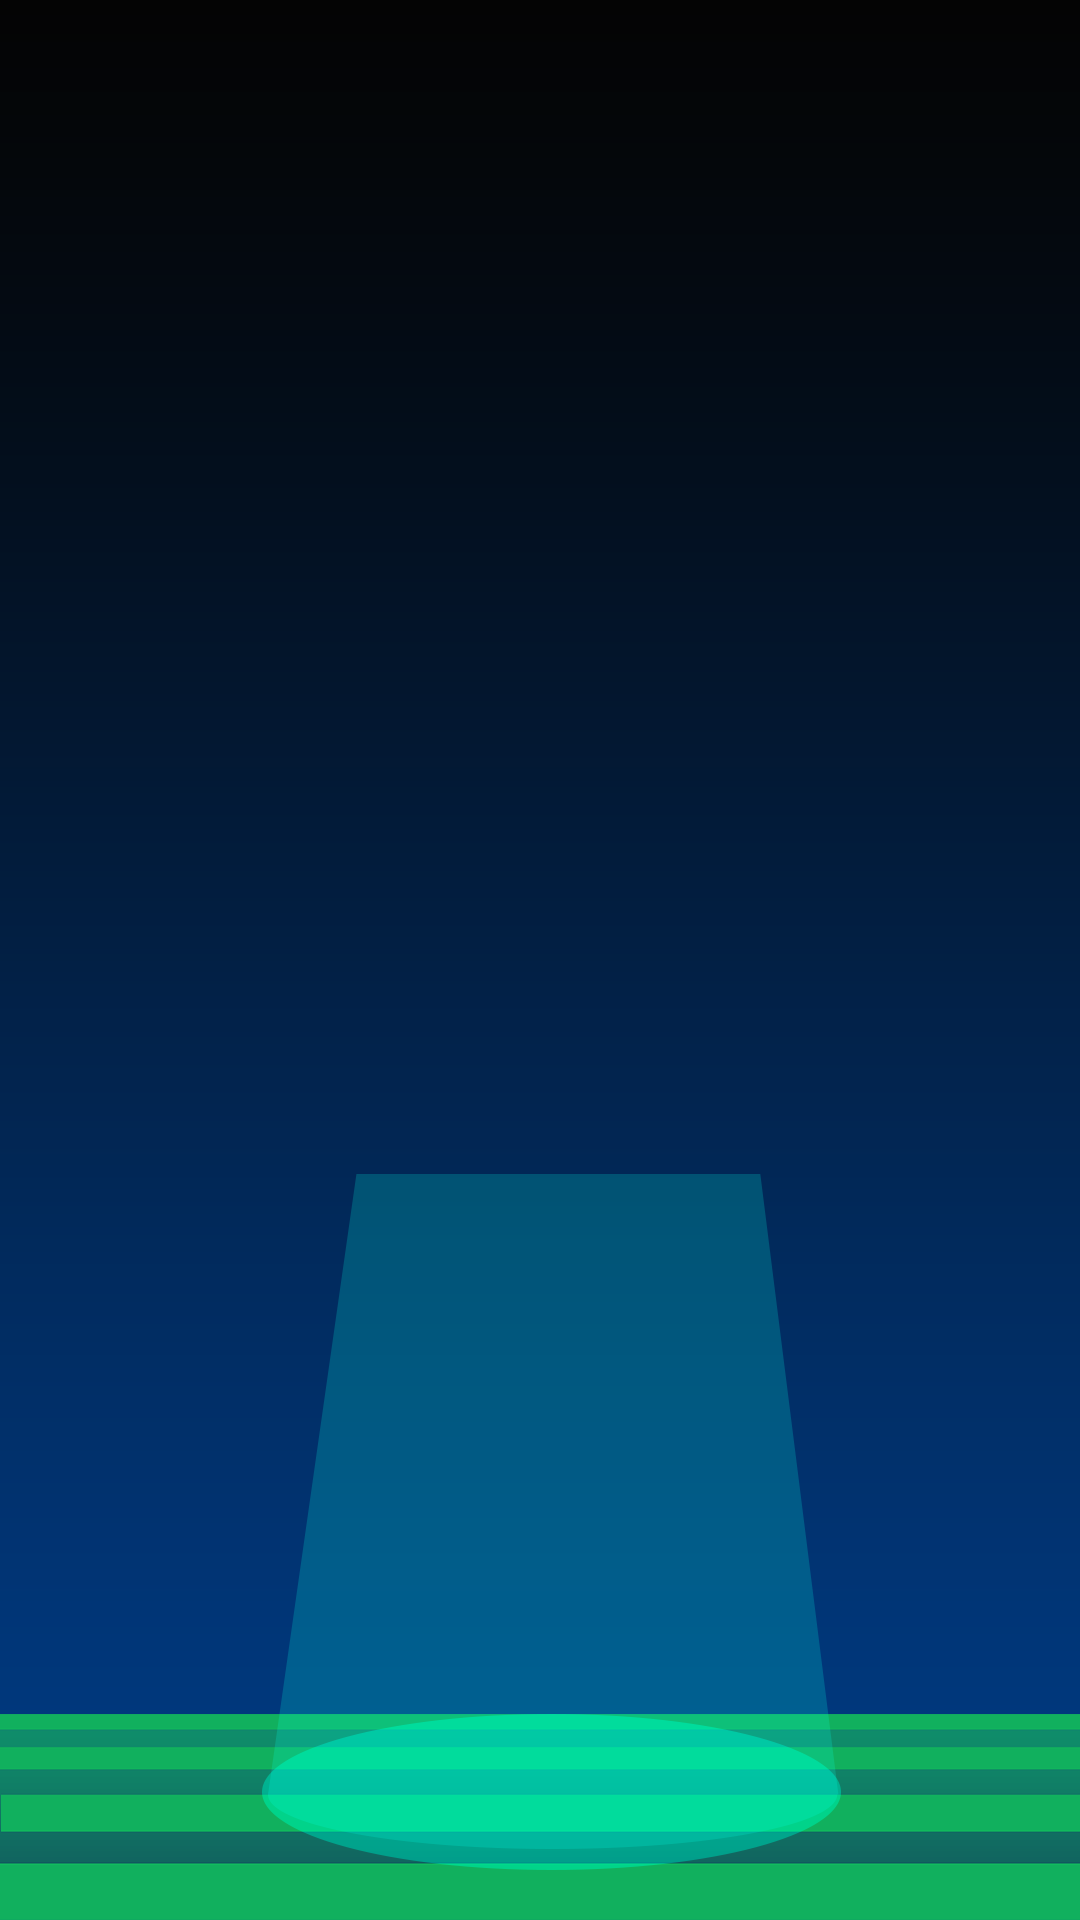
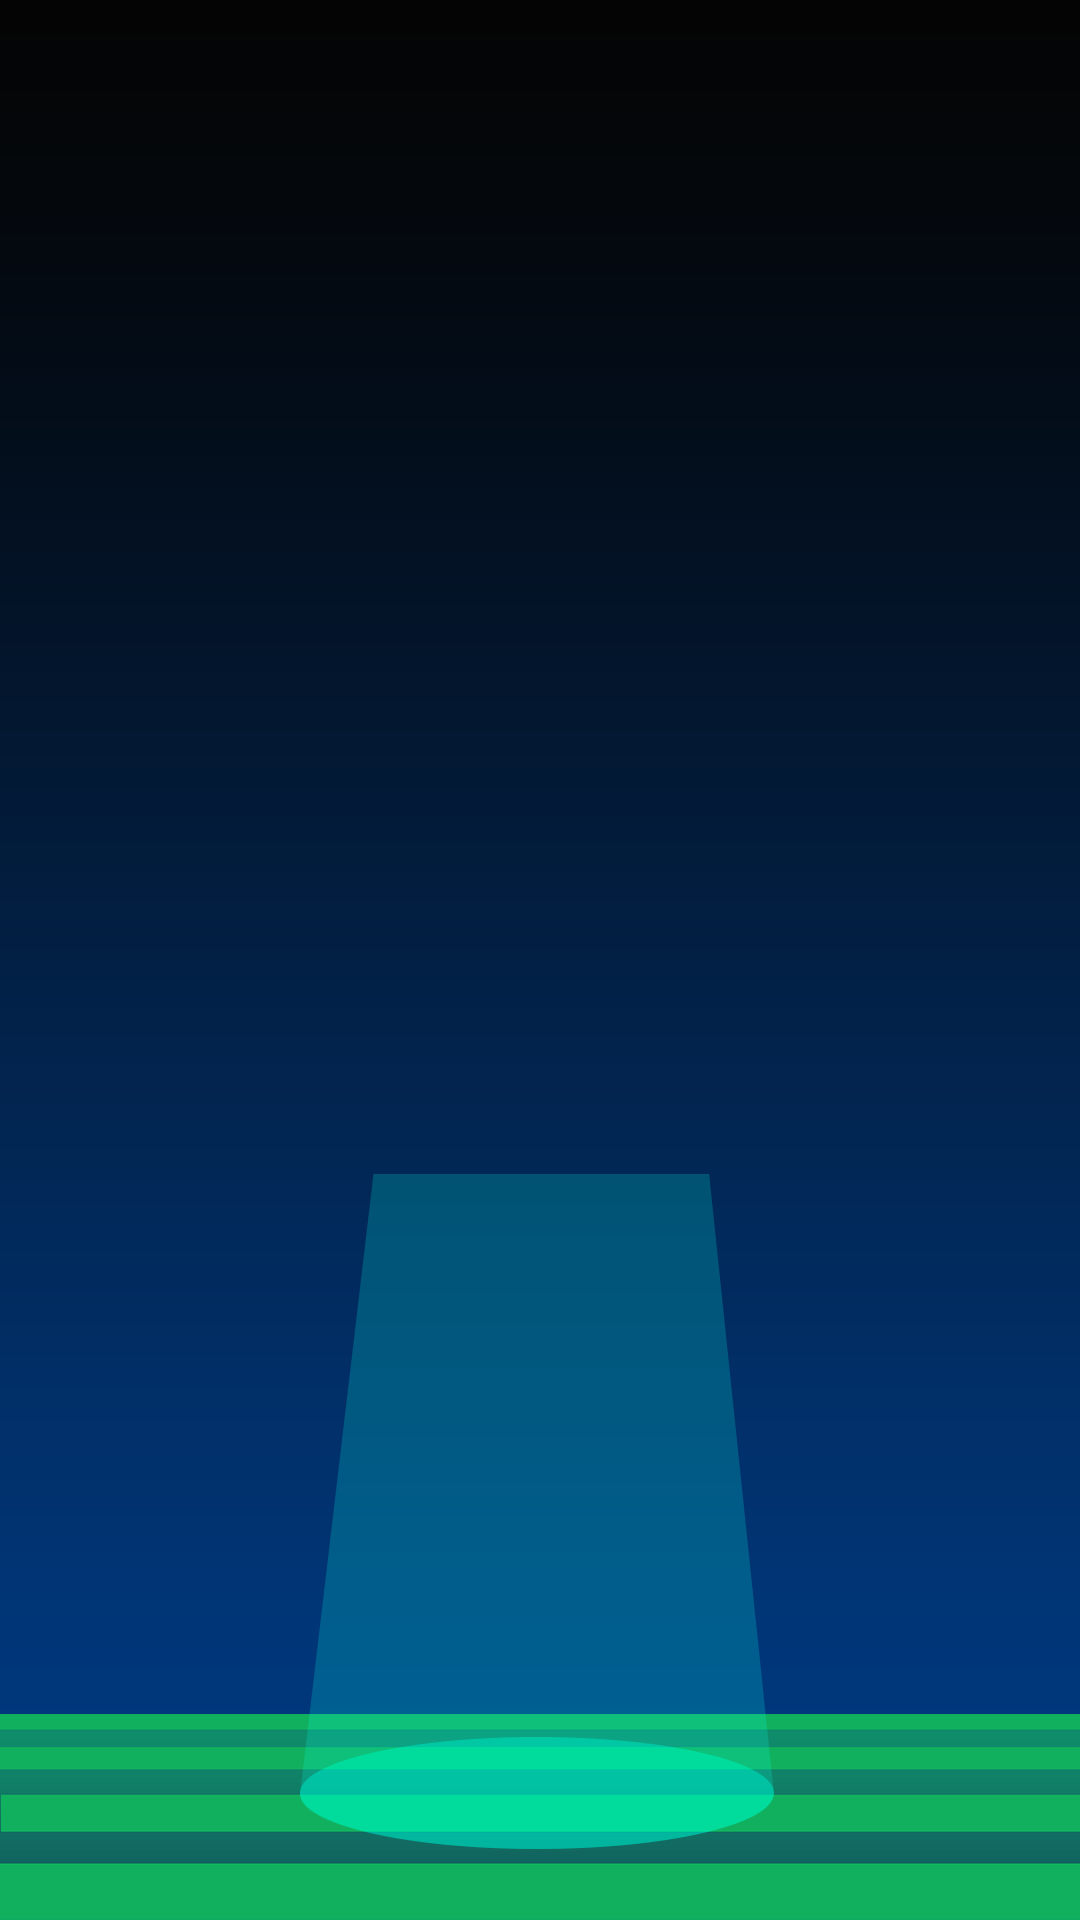
Added tutorial for alien level.

Changed region(s): [[0.2444, 0.5938, 0.7944, 1.0]]

diff --git a/core/src/mx/itesm/sheep/AlienLevel.java b/core/src/mx/itesm/sheep/AlienLevel.java
@@ -46,10 +46,14 @@ public class AlienLevel extends ScreenTemplate {
 
     private TextureRegion[] animationFrames;
     private Animation animation;
-    float elapsedTime;
+    private float elapsedTime;
     private Texture fadeIn;
 
+    private float startTime;
+
+
     private Music hit;
+    private Texture instructions;
 
 
     public AlienLevel(SheepEm sheepEm) {
@@ -140,11 +144,13 @@ public class AlienLevel extends ScreenTemplate {
         hp_outter = new Texture("outerhp.png");
         pauseButton = new Texture("Buttons/unpressed/pauseButton.png");
         whitesheep = new Texture("sheepAlienlvl.png");
+        instructions = new Texture("alienTutorial.png");
     }
 
     @Override
     public void render(float delta) {
 
+        startTime+=Gdx.graphics.getDeltaTime();
         Gdx.input.setCatchBackKey(true);
         clearScreen(0,0,0);
         batch.setProjectionMatrix(camera.combined);
@@ -158,15 +164,24 @@ public class AlienLevel extends ScreenTemplate {
 
 
         batch.begin();
-        if (hpAlien==0){
-            this.estado = EstadoJuego.GANADO;
-        }else{
-            sheepAbd.setX(440);
-            sheepAbd.render(batch);
+
+        if(startTime<3.5){
+            batch.draw(instructions,0,0);
         }
-        alienShip.setPosicionX(200);
-        alienShip.setPosicionY(700);
-        alienShip.render(batch);
+
+        if(startTime>3.5){
+            if (hpAlien==0){
+                this.estado = EstadoJuego.GANADO;
+            }else{
+                sheepAbd.setX(440);
+                sheepAbd.render(batch);
+            }
+            alienShip.setPosicionX(265);
+            alienShip.setPosicionY(745);
+            alienShip.render(batch);
+        }
+
+
 
         if(estado == EstadoJuego.GANADO){
             elapsedTime += Gdx.graphics.getDeltaTime();
@@ -195,7 +210,8 @@ public class AlienLevel extends ScreenTemplate {
         }
 
         if(pref.getBoolean("musicOn")){
-            if(estado == EstadoJuego.JUGANDO){
+
+            if(estado == EstadoJuego.JUGANDO && startTime>3.5){
                 sheepEm.alienLevel.play();
                 sheepEm.alienLevel.setLooping(true);
             }else{

diff --git a/core/src/mx/itesm/sheep/AlienShip.java b/core/src/mx/itesm/sheep/AlienShip.java
@@ -19,8 +19,8 @@ public class AlienShip {
     private float direccionY = 1;
 
     // Tamaño
-    private int alto = 424;
-    private int ancho = 691;
+    private int alto = 332;
+    private int ancho = 542;
 
     // Animación
     private Animation animacion;
@@ -35,7 +35,7 @@ public class AlienShip {
     public AlienShip(Texture textura, Estado estado){
         TextureRegion region = new TextureRegion(textura);
         TextureRegion[][]  frames = region.split(ancho,alto);
-        animacion = new Animation(0.20f, frames[0][0]);
+        animacion = new Animation(0.20f, frames[0][0],frames[0][1],frames[0][2]);
         animacion.setPlayMode(Animation.PlayMode.LOOP);
         timer = 0;
 

diff --git a/core/src/mx/itesm/sheep/MapScreen.java b/core/src/mx/itesm/sheep/MapScreen.java
@@ -95,7 +95,7 @@ public class MapScreen extends ScreenTemplate {
         levelOneBtn.addListener(new ClickListener(){
             @Override
             public void clicked(InputEvent event, float x, float y) {
-                sheepEm.setScreen(new LevelOne(sheepEm));
+                sheepEm.setScreen(new AlienLevel(sheepEm));
                 sheepEm.pauseMenuMusic();
                 pref.flush();
 
